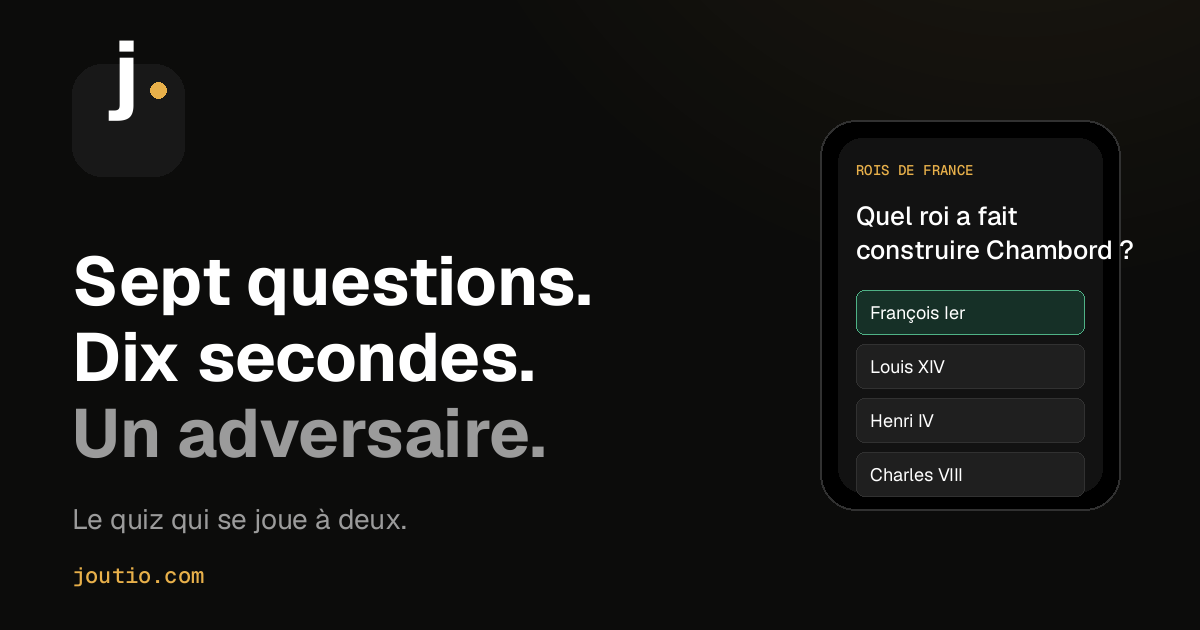
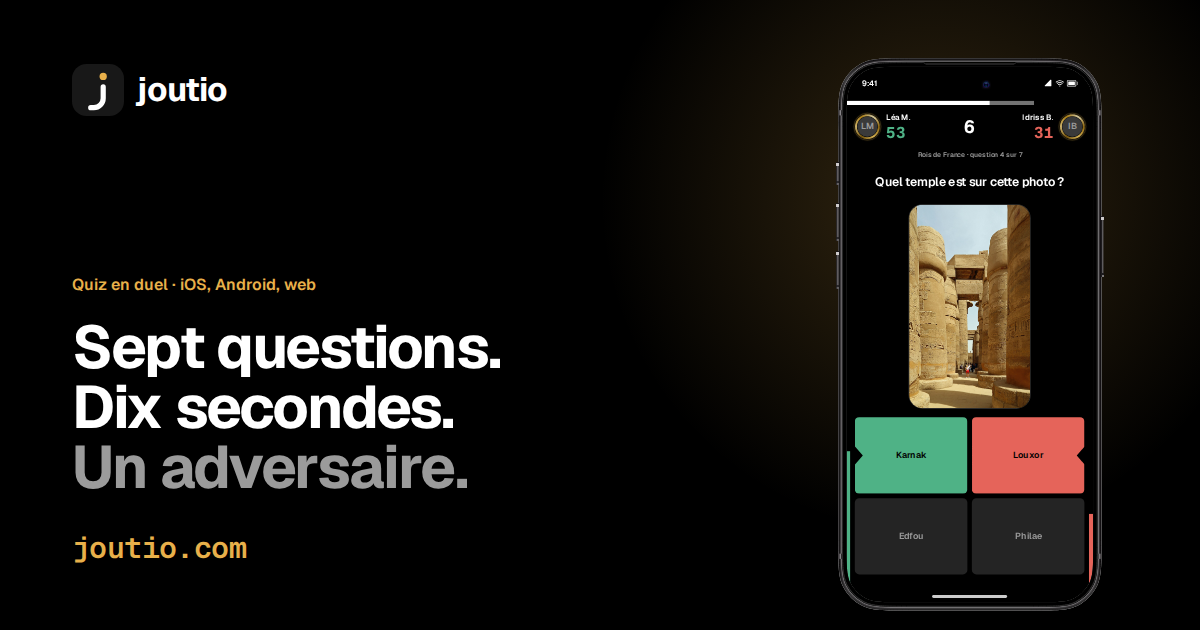
feat: new share image rendered from the design lab
og.png (1200 x 630) comes from the lab page #/og; legal pages are served by the landing only.

diff --git a/AGENTS.md b/AGENTS.md
@@ -20,6 +20,8 @@ modification visuelle. Un changement de design se fait d'abord dans le lab, puis
 - Tailwind v4 (`@tailwindcss/vite`) **au build** : les classes des composants du lab se reportent telles
   quelles, requêtes de conteneur comprises (`@3xl` = 768 px, `@5xl` = 1 024 px) sur la racine `.jo-site`.
   `cn()` (`src/lib/cn.ts`, tailwind-merge) comme dans le lab ; classes des boutons dans `src/lib/button.ts`.
+- **Image de partage** `public/og.png` (1 200 × 630, aussi l'image par défaut des liens `go.joutio.com`) : rendue par
+  le lab (`#/og`, `src/lab/site/og-image.tsx`, `npm run captures` → `public/site/og.png`), copiée ici, jamais retouchée.
 - **Copiés tels quels depuis le lab, jamais modifiés ici** : `src/styles/tokens.css`
   (`design/tokens/tokens.web.css`), `src/styles/site.css`, `src/lib/button-styles.ts`,
   `public/brand/`, `public/site/avatars/`, `src/assets/captures/` (`npm run captures` dans le lab).
@@ -49,6 +51,6 @@ modification visuelle. Un changement de design se fait d'abord dans le lab, puis
 
 - Ajouter un prix Premium, une pub ou un ATT tant que l'IAP n'est pas livré.
 - Réintroduire une gestion presse (retirée le 2026-11-10) sans la concevoir d'abord dans le lab.
-- Dupliquer les pages légales de `joutio-web` : la landing porte les URLs publiques `/terms`,
-  `/privacy`, `/data-deletion` pour les stores. Mettre à jour les deux versions si un texte change.
+- Dupliquer les pages légales dans `joutio-web` : la landing porte **seule** les URLs publiques `/terms`,
+  `/privacy`, `/data-deletion` (stores, apps) ; les copies de `joutio-web/public/` ont été supprimées le 2026-11-16.
 - Committer une empreinte SHA-256 de keystore en clair : utiliser `ANDROID_SHA256` au build.
